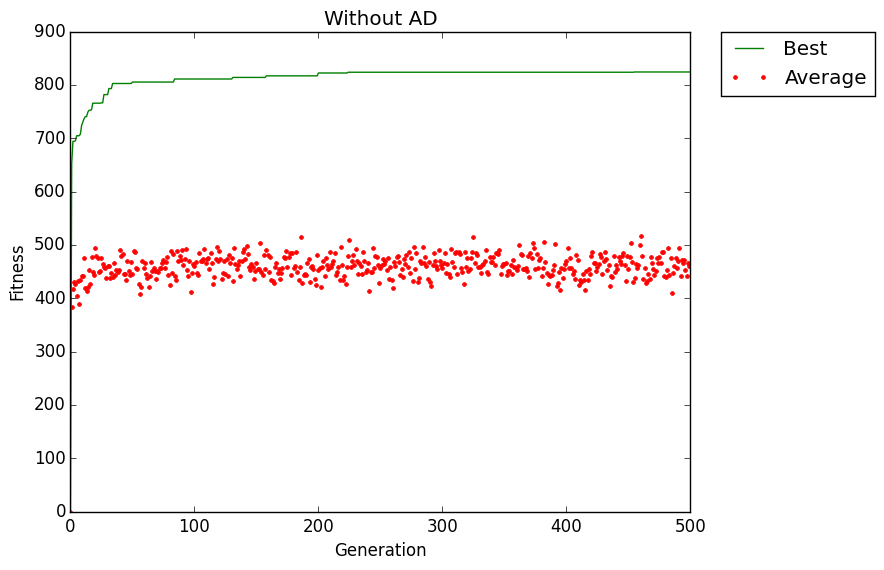
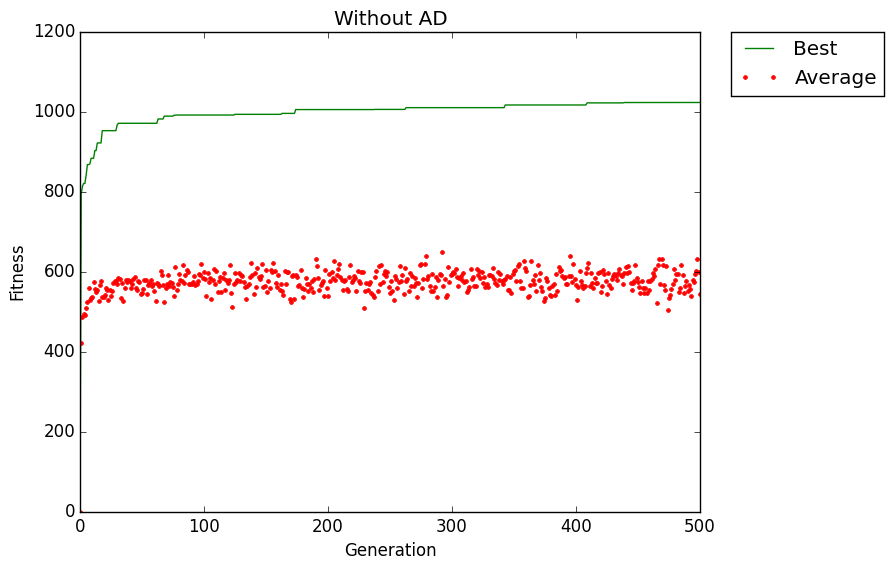
- i can't believe it actually worked, but it does make sense -- only use out method if we find _NO_ differences form past generations 10 times in a row --- now our's will converge to a better solution faster! ---- some times in the long run we get passed again, but that's not the point!!

diff --git a/code/stratego_auto_adapt.py b/code/stratego_auto_adapt.py
@@ -201,7 +201,7 @@ def stratego(numb_generations, size_pop, size_cromo, prob_mut, prob_cross, sel_p
         debug_print(ratio)
 
         # if the difference ratio falls below the threshhold alter the crossover and mutation probabilities
-        if ratio < ACTIVATION_THRESHOLD:
+        if ratio <= ACTIVATION_THRESHOLD:
             difference_history += 1
 
         if difference_history == DIFFERENCE_TOLERANCE:
@@ -308,7 +308,7 @@ if __name__ == '__main__':
 
     # AD Approach specific parameters
     WINDOW_SIZE = 10  # number previous generations considered for altering the auto-adaptative parameters
-    ACTIVATION_THRESHOLD = 0.25  # below this lower bound start reversing the crossover and mutation
+    ACTIVATION_THRESHOLD = 0  # below this lower bound start reversing the crossover and mutation
     DIFFERENCE_TOLERANCE = 10  # number of times that the threshhold must be surmounted before we take action (give the algorithm time to sort itself out)
     CROSSOVER_STEP = 0.10
     MUTATION_STEP = 0.10
@@ -316,6 +316,12 @@ if __name__ == '__main__':
     MUTATION_BOUND = 0.80
 
     PATH = "results/"
+
+    # run our simulations
+    results = run_n_times(NUMBER_OF_RUNS)
+
+    # analyse the results from the simulations
+    analyse_results(PATH, NUMBER_OF_RUNS, results)
 
     # record the simulation's parameters
     dic = {
@@ -337,9 +343,3 @@ if __name__ == '__main__':
         "Mutation upper bound: ": MUTATION_BOUND
     }
     write_dic_to_file(PATH + "simulation_parameters.txt", dic)
-
-    # run our simulations
-    results = run_n_times(NUMBER_OF_RUNS)
-
-    # analyse the results from the simulations
-    analyse_results(PATH, NUMBER_OF_RUNS, results)
